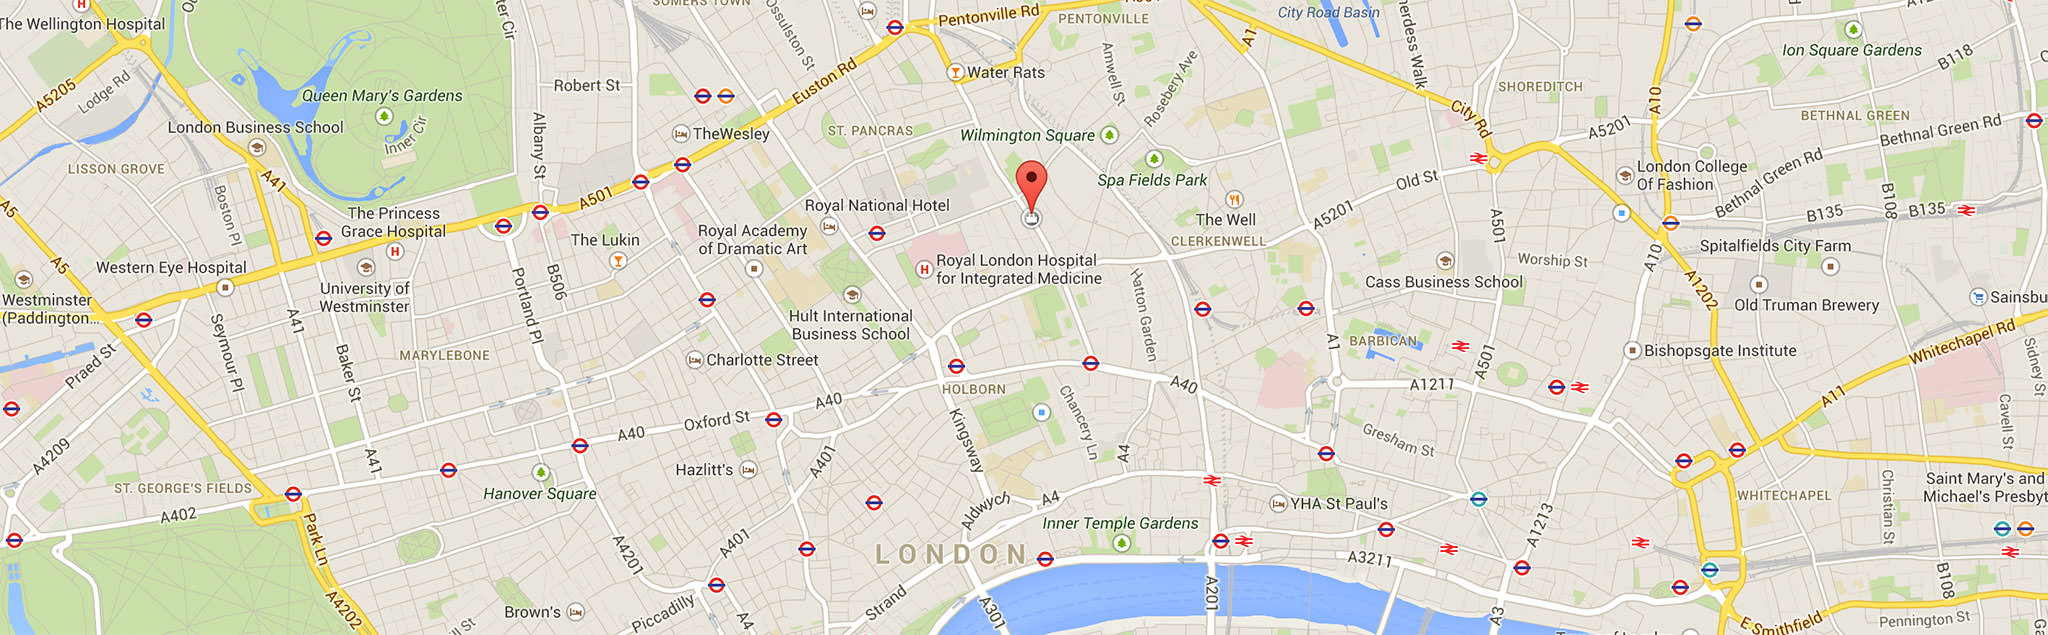
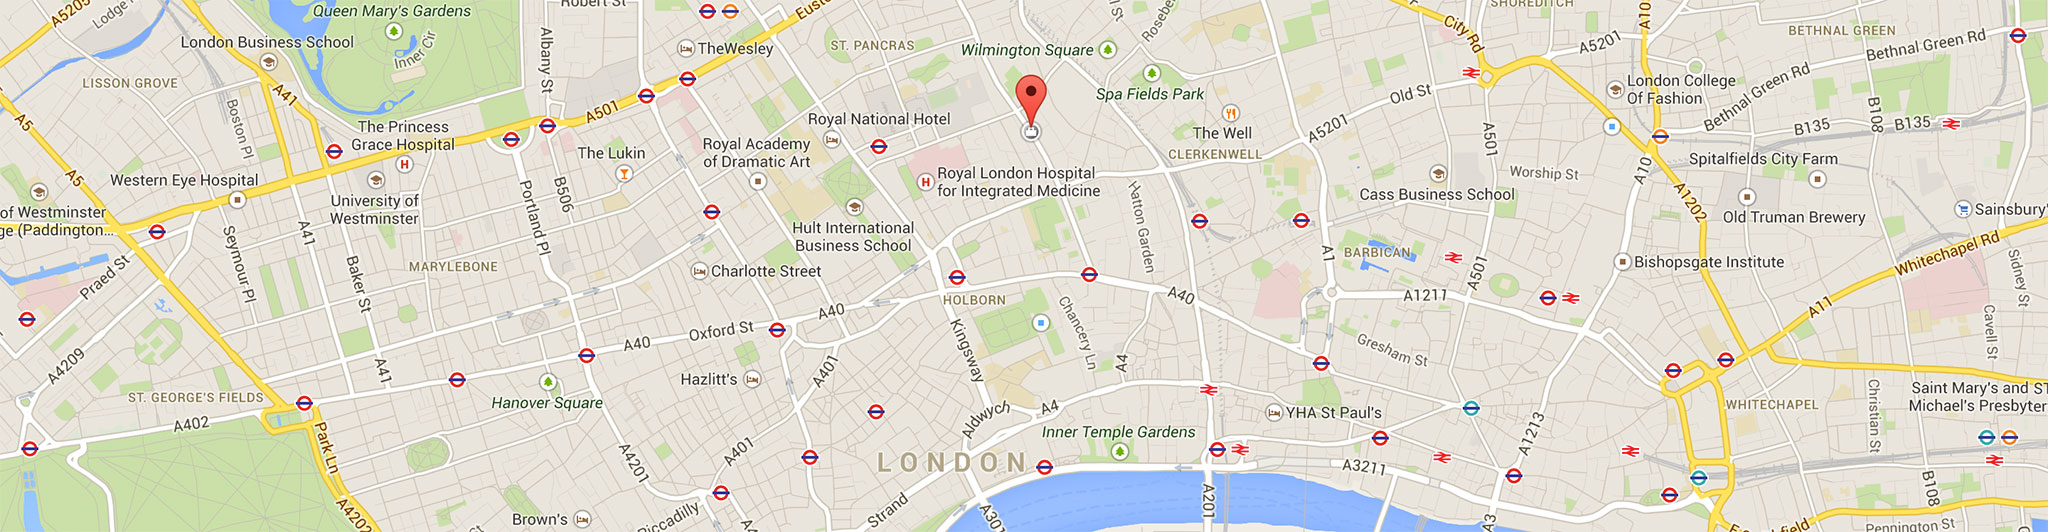
TC: Updating map image and dimensions + Adding border and extending background colour to storyboard from welcome message

diff --git a/index.html b/index.html
@@ -4,59 +4,61 @@ title: Welcome
 ---
 <div class="welcome">
   <div class="welcome__wrapper">
-    <p class="welcome__tagline">Springer is the world's second largest scientific and Open Access publisher</p>
+    <p class="welcome__tagline">Springer is a world-class international scientific publisher.</p>
     <h1 class="welcome__heading fitText" data-fitTextCompressor="1.3" data-fitTextMinSize="32">Delivering the world's knowledge, using the technology we love.</h1>
     <h2 class="welcome__subheading fitText"  data-fitTextCompressor="1.6" data-fitTextMinSize="24"><em>Welcome to Springer IT.</em></h2>
     <!--<a href="#next" class="welcome__start-link">start</a>-->
   </div>
 </div>
 <div class="storyboards">
-  <div class="storyboards__board board--ideas">
-    <noscript data-baseImg="assets/imgs/storyboards/01.jpg" class="responsive" data-imgClass="board__image">
-      <img class="board__image" src="/assets/imgs/storyboards/01_smartphone.jpg">
-    </noscript>
-    <div class="board__content">
-      <h2 class="board__headline">
-        <span>We love to</span>
-        <span>share our <em>ideas</em>&hellip;</span>
-      </h2>
-      <a class="board__next-link" href="#next">next</a>
+  <div class="storyboards__wrapper">
+    <div class="storyboards__board board--ideas">
+      <noscript data-baseImg="assets/imgs/storyboards/01.jpg" class="responsive" data-imgClass="board__image">
+        <img class="board__image" src="/assets/imgs/storyboards/01_smartphone.jpg">
+      </noscript>
+      <div class="board__content">
+        <h2 class="board__headline">
+          <span>We love to</span>
+          <span>share our <em>ideas</em>&hellip;</span>
+        </h2>
+        <a class="board__next-link" href="#next">next</a>
+      </div>
     </div>
-  </div>
-  <div class="storyboards__board board--passion">
-    <noscript data-baseImg="/assets/imgs/storyboards/02.jpg" class="responsive" data-imgClass="board__image">
-      <img class="board__image" src="/assets/imgs/storyboards/02_smartphone.jpg">
-    </noscript>
-    <div class="board__content">
-      <h2 class="board__headline">
-        <span>We're <em>passionate</em> about</span>
-        <span>the products we build &hellip;</span>
-      </h2>
-      <a class="board__next-link" href="#next">next</a>
+    <div class="storyboards__board board--passion">
+      <noscript data-baseImg="/assets/imgs/storyboards/02.jpg" class="responsive" data-imgClass="board__image">
+        <img class="board__image" src="/assets/imgs/storyboards/02_smartphone.jpg">
+      </noscript>
+      <div class="board__content">
+        <h2 class="board__headline">
+          <span>We're <em>passionate</em> about</span>
+          <span>the products we build &hellip;</span>
+        </h2>
+        <a class="board__next-link" href="#next">next</a>
+      </div>
     </div>
-  </div>
-  <div class="storyboards__board board--collaboration">
-    <noscript data-baseImg="/assets/imgs/storyboards/03.jpg" class="responsive" data-imgClass="board__image">
-      <img class="board__image" src="/assets/imgs/storyboards/03_smartphone.jpg">
-    </noscript>
-    <div class="board__content">
-      <h2 class="board__headline">
-        <span>We <em>collaborate</em> to find</span>
-        <span>the best solutions&hellip;</span>
-      </h2>
-      <a class="board__next-link" href="#next">next</a>
+    <div class="storyboards__board board--collaboration">
+      <noscript data-baseImg="/assets/imgs/storyboards/03.jpg" class="responsive" data-imgClass="board__image">
+        <img class="board__image" src="/assets/imgs/storyboards/03_smartphone.jpg">
+      </noscript>
+      <div class="board__content">
+        <h2 class="board__headline">
+          <span>We <em>collaborate</em> to find</span>
+          <span>the best solutions&hellip;</span>
+        </h2>
+        <a class="board__next-link" href="#next">next</a>
+      </div>
     </div>
-  </div>
-  <div class="storyboards__board board--learning">
-    <noscript data-baseImg="/assets/imgs/storyboards/04.jpg" class="responsive" data-imgClass="board__image">
-      <img class="board__image" src="/assets/imgs/storyboards/04_smartphone.jpg">
-    </noscript>
-    <div class="board__content">
-      <h2 class="board__headline">
-        <span>And we never</span>
-        <span>stop <em>learning</em>.</span>
-      </h2>
-      <!--<a class="board__next-link" href="#next">next</a>-->
+    <div class="storyboards__board board--learning">
+      <noscript data-baseImg="/assets/imgs/storyboards/04.jpg" class="responsive" data-imgClass="board__image">
+        <img class="board__image" src="/assets/imgs/storyboards/04_smartphone.jpg">
+      </noscript>
+      <div class="board__content">
+        <h2 class="board__headline">
+          <span>And we never</span>
+          <span>stop <em>learning</em>.</span>
+        </h2>
+        <!--<a class="board__next-link" href="#next">next</a>-->
+      </div>
     </div>
   </div>
 </div>

diff --git a/assets/css/joinit.springer.css b/assets/css/joinit.springer.css
@@ -382,9 +382,9 @@ h3 {
   width: 100%;
 }
 
+.storyboards,
 .welcome {
   background: #fbfdfe;
-  border-bottom: 5px solid #e8f4fc;
 }
 
 .welcome__wrapper {
@@ -424,14 +424,16 @@ h3 {
   margin-bottom: 0;
 }
 
-.storyboards {
+.storyboards__wrapper {
   background-color: #999;
-  max-width: 1440px;
+  border: 10px solid #e8f4fc;
   margin: 0 auto;
+  max-width: 1440px;
 }
 
 .storyboards__board {
   height: 144px;
+  margin: 0 -10px;
   opacity: 0.9;
   overflow: hidden;
   position: relative;
@@ -442,6 +444,7 @@ h3 {
   -moz-transition: -moz-filter 1s, opacity 1s;
   transition: filter 1s, opacity 1s;
   /* Webkit excludes scrollbar-width when calculating viewport width */
+  /* Webkit excludes scrollbar-width when calculating viewport width */
 }
 @media screen and (min-width: 1025px) {
   .storyboards__board {
@@ -449,6 +452,12 @@ h3 {
     -webkit-filter: blur(2px);
     -moz-filter: blur(2px);
     filter: blur(2px);
+  }
+}
+@media all and (min-width: 1440px) {
+  .storyboards__board {
+    /* MQ Break point */
+    margin: auto;
   }
 }
 .storyboards__board.active {
@@ -558,8 +567,10 @@ h3 {
   }
 }
 .home-section--our-products .home-section__heading {
+  border-top: 0 none;
   margin-left: 0;
   margin-right: 0;
+  margin-top: 0;
   /* Webkit excludes scrollbar-width when calculating viewport width */
 }
 @media all and (min-width: 1016px) {
@@ -817,14 +828,14 @@ h3 {
 
 .our-workplace .home-section__grid {
   height: 802px;
-  top: 317px;
+  top: 266px;
   position: relative;
   /* Webkit excludes scrollbar-width when calculating viewport width */
 }
 @media all and (min-width: 1024px) {
   .our-workplace .home-section__grid {
     /* MQ Break point */
-    top: 446px;
+    top: 374px;
     height: 1112px;
   }
 }

diff --git a/sass/page-components/_storyboards.scss b/sass/page-components/_storyboards.scss
@@ -3,12 +3,7 @@ $parallaxPanelRatio:0.1;
 
 .storyboards,
 .welcome {
-  //display:none;
-}
-
-.welcome {
   background:#fbfdfe;
-  border-bottom:5px solid #e8f4fc;
 }
 
 .welcome__wrapper {
@@ -47,14 +42,16 @@ $parallaxPanelRatio:0.1;
   margin-bottom:0;
 }
 
-.storyboards {
+.storyboards__wrapper {
   background-color:#999;
-  max-width:1440px;
+  border:10px solid #e8f4fc;
   margin:0 auto;
+  max-width:1440px;
 }
 
 .storyboards__board {
   height:$pageWidth*$parallaxPanelRatio;
+  margin:0 -10px;
   opacity:0.9;
   overflow:hidden;
   position:relative;
@@ -71,6 +68,10 @@ $parallaxPanelRatio:0.1;
     -webkit-filter:blur(2px);
     -moz-filter:blur(2px);
     filter:blur(2px);
+  }
+
+  @include respond-to(break-point, 'min-width:1440px') {
+    margin:auto;
   }
 
   &.active {

diff --git a/sass/page-components/_our-culture.scss b/sass/page-components/_our-culture.scss
@@ -1,10 +1,8 @@
 .our-culture,
 .our-workplace {
-  // display:none;
   margin:0 18px;
 
   img {
-    // @extend .home-section__grid-wrapper;
     @extend .centeredNoScroll;
   } 
 
@@ -26,7 +24,7 @@
 
 .our-culture{
   
-  >.home-section__grid {
+  > .home-section__grid {
     height:466px;
     @include respond-to(break-point, 'min-width:1024px') {
       height: 652px;
@@ -37,12 +35,12 @@
 
 .our-workplace .home-section__grid {
   height:802px;
-  top:317px;
+  top:266px;
   position:relative;
 
   @include respond-to(break-point, 'min-width:1024px') {
-    top:446px;
-    height: 1112px;
+    top:374px;
+    height:1112px;
   }
 
   img {

diff --git a/sass/page-components/_our-products.scss b/sass/page-components/_our-products.scss
@@ -1,5 +1,4 @@
 .home-section--our-products {
-  //display:none;
   overflow:hidden;
   width:100%;
   position:relative;
@@ -9,8 +8,10 @@
   }
 
   .home-section__heading {
+    border-top:0 none;
     margin-left:0;
     margin-right:0;
+    margin-top:0;
 
     @include respond-to(break-point, 'min-width:1016px') {
       margin-left:-18px;

diff --git a/assets/js/main.js b/assets/js/main.js
@@ -15,7 +15,7 @@
 
 	//on page ready....
 	$().ready(function(){
-		var parFx=$(".storyboards"),
+		var parFx=$(".storyboards__wrapper"),
 			parFxPos=parFx.position(),
 			panels=parFx.children(".storyboards__board"),
 			$w=$(window),
